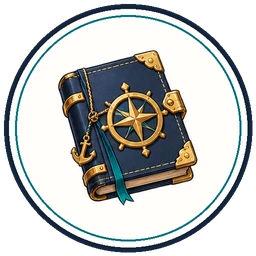
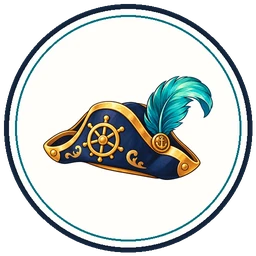
코스프레 미션 배지를 해적 모자로 교체
Claude-Session: https://claude.ai/code/session_013g7afXtHn2LSexh3jg8U37

Changed region(s): [[0.1562, 0.1875, 0.8438, 0.8125]]

diff --git a/sw.js b/sw.js
@@ -1,5 +1,5 @@
 /* 오프라인 대응 — 한 번 열어두면 신호가 없어도 QR이 열리고 채점까지 된다. */
-var CACHE = "ggg-v37";
+var CACHE = "ggg-v38";
 var FILES = [
   "./", "./index.html", "./style.css", "./data.js", "./assets.js", "./store.js", "./qr.js", "./ev-client.js", "./mhcards.js", "./kujiboard.js", "./seal.js", "./sfx.js", "./app.js", "./catch.js", "./map.jpg",
   "./guide.html",
